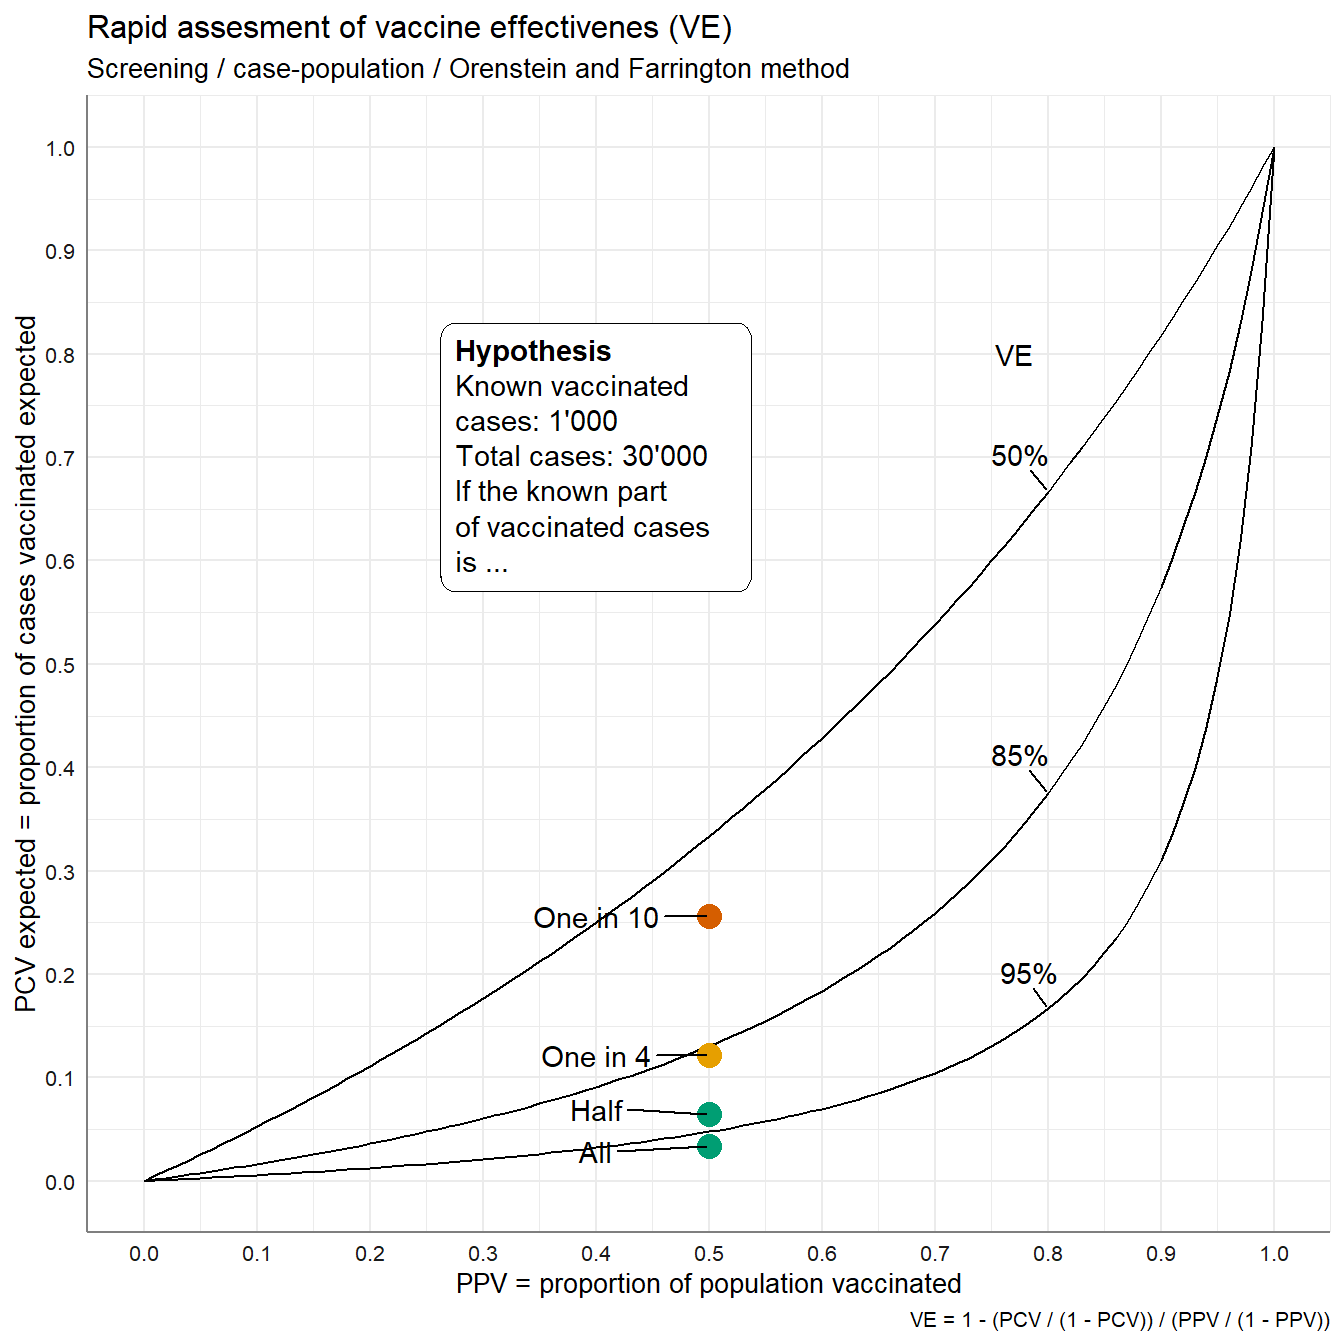
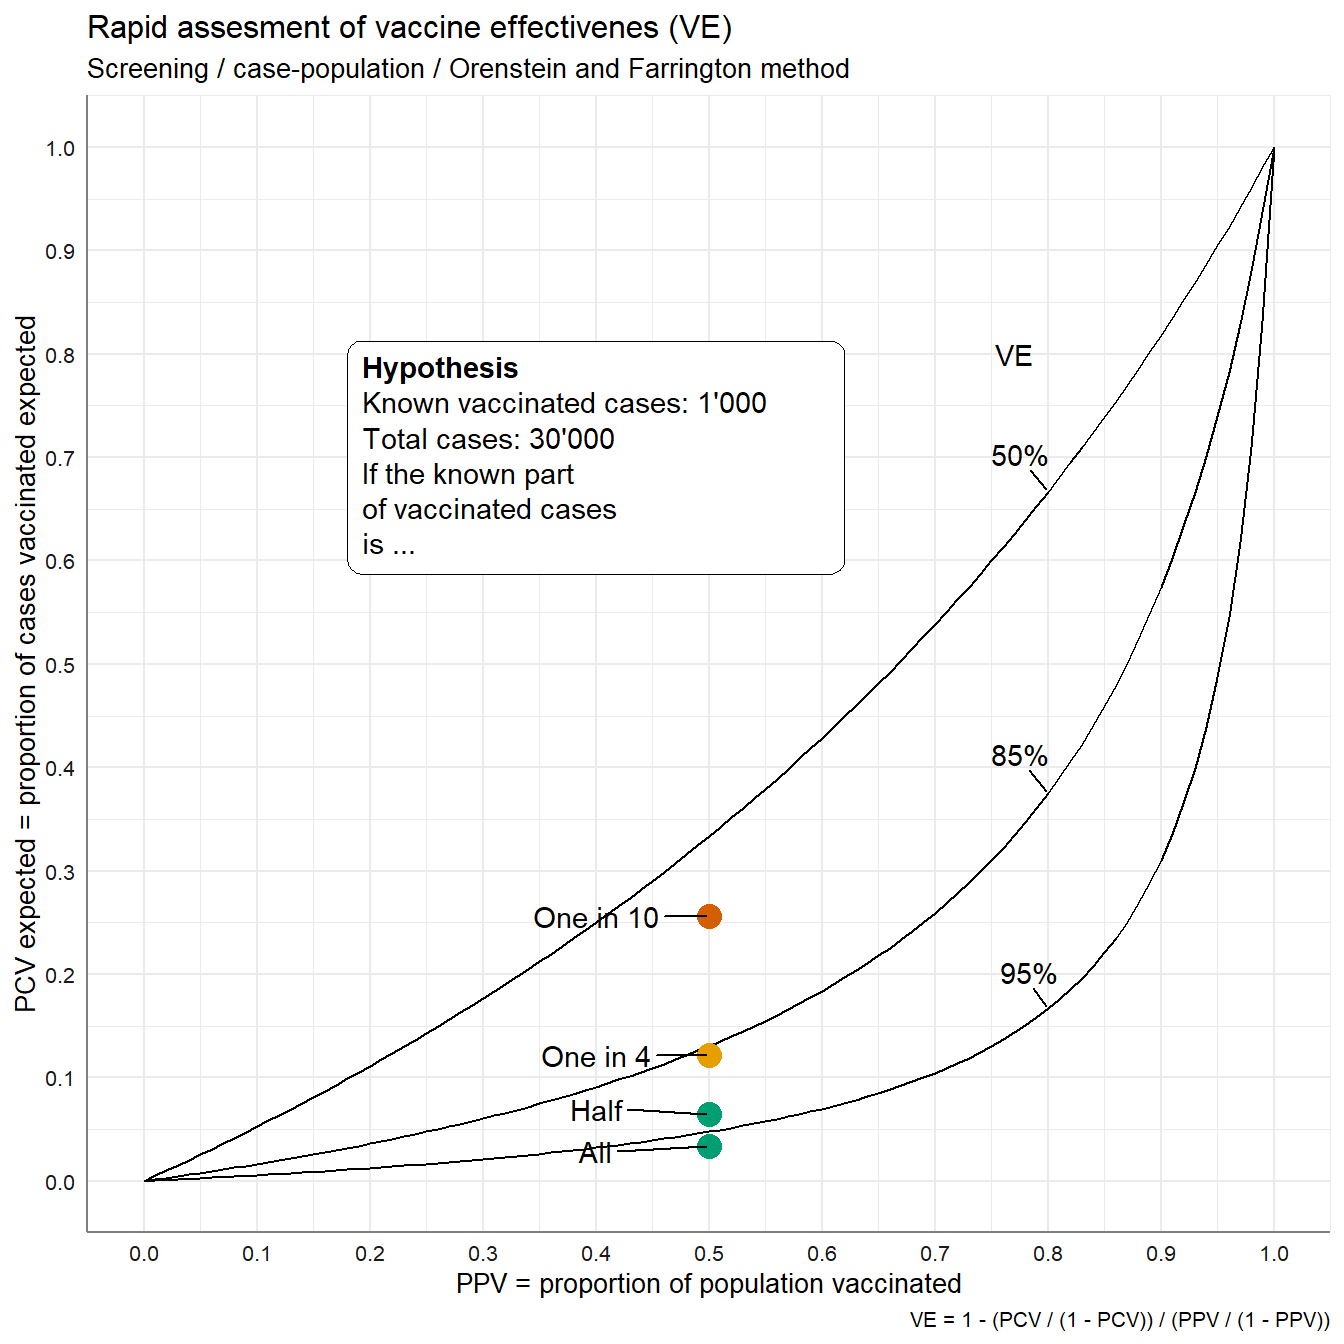
Build site.

Changed region(s): [[0.25, 0.25, 0.5625, 0.4375]]

diff --git a/docs/01_VE_nomogram.html b/docs/01_VE_nomogram.html
@@ -497,16 +497,16 @@ This reproducible <a href="http://rmarkdown.rstudio.com">R Markdown</a> analysis
 <div class="panel panel-default">
 <div class="panel-heading">
 <p class="panel-title">
-<a data-toggle="collapse" data-parent="#workflowr-checks" href="#strongRepositoryversionstrongahrefhttpsgithubcomduperrexvaccineeffectivenessscreeningmethodtreee9de552ee58534f8e5d3918023ae70054ac0b089targetblanke9de552a"> <span class="glyphicon glyphicon-ok text-success" aria-hidden="true"></span> <strong>Repository version:</strong> <a href="https://github.com/duperrex/vaccine_effectiveness_screening_method/tree/e9de552ee58534f8e5d3918023ae70054ac0b089" target="_blank">e9de552</a> </a>
+<a data-toggle="collapse" data-parent="#workflowr-checks" href="#strongRepositoryversionstrongahrefhttpsgithubcomduperrexvaccineeffectivenessscreeningmethodtree45c500d8e03fffd9f9b30ae4e358dfcfb65ab9ddtargetblank45c500da"> <span class="glyphicon glyphicon-ok text-success" aria-hidden="true"></span> <strong>Repository version:</strong> <a href="https://github.com/duperrex/vaccine_effectiveness_screening_method/tree/45c500d8e03fffd9f9b30ae4e358dfcfb65ab9dd" target="_blank">45c500d</a> </a>
 </p>
 </div>
[2 lines of base64/hex data omitted]
 <div class="panel-body">
 <p>
 Great! You are using Git for version control. Tracking code development and connecting the code version to the results is critical for reproducibility.
 </p>
 <p>
-The results in this page were generated with repository version <a href="https://github.com/duperrex/vaccine_effectiveness_screening_method/tree/e9de552ee58534f8e5d3918023ae70054ac0b089" target="_blank">e9de552</a>. See the <em>Past versions</em> tab to see a history of the changes made to the R Markdown and HTML files.
+The results in this page were generated with repository version <a href="https://github.com/duperrex/vaccine_effectiveness_screening_method/tree/45c500d8e03fffd9f9b30ae4e358dfcfb65ab9dd" target="_blank">45c500d</a>. See the <em>Past versions</em> tab to see a history of the changes made to the R Markdown and HTML files.
 </p>
 <p>
 Note that you need to be careful to ensure that all relevant files for the analysis have been committed to Git prior to generating the results (you can use <code>wflow_publish</code> or <code>wflow_git_commit</code>). workflowr only checks the R Markdown file, but you know if there are other scripts or data files that it depends on. Below is the status of the Git repository when the results were generated:
@@ -515,12 +515,13 @@ Note that you need to be careful to ensure that all relevant files for the analy
 Ignored files:
     Ignored:    .Rhistory
     Ignored:    .Rproj.user/
+    Ignored:    output/RData/
     Ignored:    output/png4ppt/p0_1_VE_nomogram_PPV_50_data_global.png
     Ignored:    output/png4ppt/p0_1_VE_nomogram_PPV_50_data_global_hypothetical.png
     Ignored:    output/xlsx/
 
-Unstaged changes:
-    Modified:   0_run_ME.R
+Untracked files:
+    Untracked:  analysis/02_VE_screening_method.Rmd
 
 </code></pre>
 <p>
@@ -535,7 +536,7 @@ Note that any generated files, e.g. HTML, png, CSS, etc., are not included in t
 <div id="versions" class="tab-pane fade">
 
 <p>
-These are the previous versions of the repository in which changes were made to the R Markdown (<code>analysis/VE_nomogram.Rmd</code>) and HTML (<code>docs/VE_nomogram.html</code>) files. If you’ve configured a remote Git repository (see <code>?wflow_git_remote</code>), click on the hyperlinks in the table below to view the files as they were in that past version.
+These are the previous versions of the repository in which changes were made to the R Markdown (<code>analysis/01_VE_nomogram.Rmd</code>) and HTML (<code>docs/01_VE_nomogram.html</code>) files. If you’ve configured a remote Git repository (see <code>?wflow_git_remote</code>), click on the hyperlinks in the table below to view the files as they were in that past version.
 </p>
 <div class="table-responsive">
 <table class="table table-condensed table-hover">
@@ -561,36 +562,19 @@ Message
 <tbody>
 <tr>
 <td>
-html
-</td>
-<td>
-<a href="https://rawcdn.githack.com/duperrex/vaccine_effectiveness_screening_method/08b82b2362dc17a2517b305b7f1130e7d3486c43/docs/VE_nomogram.html" target="_blank">08b82b2</a>
-</td>
-<td>
-Olivier.Duperrex
-</td>
-<td>
-2021-09-06
-</td>
-<td>
-Build site.
-</td>
-</tr>
-<tr>
-<td>
 Rmd
 </td>
 <td>
-<a href="https://github.com/duperrex/vaccine_effectiveness_screening_method/blob/26eb3f7b73578d2aa32d6ce1a688c6daa1b240a5/analysis/VE_nomogram.Rmd" target="_blank">26eb3f7</a>
+<a href="https://github.com/duperrex/vaccine_effectiveness_screening_method/blob/44c06307dfc24ed87f4d6ed49f8ca0593eec6f10/analysis/01_VE_nomogram.Rmd" target="_blank">44c0630</a>
 </td>
 <td>
 Olivier.Duperrex
 </td>
 <td>
-2021-09-06
+2021-09-07
 </td>
 <td>
-save xlsx
+wflow_rename(here::here(“analysis,” “VE_nomogram.Rmd”), here::here(“analysis,”
 </td>
 </tr>
 <tr>
@@ -598,118 +582,16 @@ save xlsx
 html
 </td>
 <td>
-<a href="https://rawcdn.githack.com/duperrex/vaccine_effectiveness_screening_method/f8e9fdaaeab5dd96ad8db56266e9c399a2e80354/docs/VE_nomogram.html" target="_blank">f8e9fda</a>
+<a href="https://rawcdn.githack.com/duperrex/vaccine_effectiveness_screening_method/44c06307dfc24ed87f4d6ed49f8ca0593eec6f10/docs/01_VE_nomogram.html" target="_blank">44c0630</a>
 </td>
 <td>
 Olivier.Duperrex
 </td>
 <td>
-2021-09-06
+2021-09-07
 </td>
 <td>
-Build site.
-</td>
-</tr>
-<tr>
-<td>
-Rmd
-</td>
-<td>
-<a href="https://github.com/duperrex/vaccine_effectiveness_screening_method/blob/1e08d2a2e51f24c9cc043d446fc1ab7706872e9a/analysis/VE_nomogram.Rmd" target="_blank">1e08d2a</a>
-</td>
-<td>
-Olivier.Duperrex
-</td>
-<td>
-2021-09-06
-</td>
-<td>
-Add hypothetical example and update refs
-</td>
-</tr>
-<tr>
-<td>
-Rmd
-</td>
-<td>
-<a href="https://github.com/duperrex/vaccine_effectiveness_screening_method/blob/bc2ec51c4e188d4a7c41891b4a7d6d17873cbe9c/analysis/VE_nomogram.Rmd" target="_blank">bc2ec51</a>
-</td>
-<td>
-Olivier.Duperrex
-</td>
-<td>
-2021-09-02
-</td>
-<td>
-Add extra point SO as example
-</td>
-</tr>
-<tr>
-<td>
-html
-</td>
-<td>
-<a href="https://rawcdn.githack.com/duperrex/vaccine_effectiveness_screening_method/dabb711bf92006302066c5a5ca88471a1c55cbc4/docs/VE_nomogram.html" target="_blank">dabb711</a>
-</td>
-<td>
-Olivier.Duperrex
-</td>
-<td>
-2021-08-27
-</td>
-<td>
-Build site.
-</td>
-</tr>
-<tr>
-<td>
-Rmd
-</td>
-<td>
-<a href="https://github.com/duperrex/vaccine_effectiveness_screening_method/blob/a7d4bdc2c68d19d46c54d4c49554869c65ddd436/analysis/VE_nomogram.Rmd" target="_blank">a7d4bdc</a>
-</td>
-<td>
-Olivier.Duperrex
-</td>
-<td>
-2021-08-27
-</td>
-<td>
-Initial commit
-</td>
-</tr>
-<tr>
-<td>
-html
-</td>
-<td>
-<a href="https://rawcdn.githack.com/duperrex/vaccine_effectiveness_screening_method/8fb4a90f75db3061d31eab804f86293784a94106/docs/VE_nomogram.html" target="_blank">8fb4a90</a>
-</td>
-<td>
-Olivier.Duperrex
-</td>
-<td>
-2021-08-26
-</td>
-<td>
-Build site.
-</td>
-</tr>
-<tr>
-<td>
-Rmd
-</td>
-<td>
-<a href="https://github.com/duperrex/vaccine_effectiveness_screening_method/blob/e5ffc1812ee5c683d2cc492370381147edc31898/analysis/VE_nomogram.Rmd" target="_blank">e5ffc18</a>
-</td>
-<td>
-Olivier.Duperrex
-</td>
-<td>
-2021-08-26
-</td>
-<td>
-Initial commit
+wflow_rename(here::here(“analysis,” “VE_nomogram.Rmd”), here::here(“analysis,”
 </td>
 </tr>
 </tbody>
@@ -765,33 +647,40 @@ if (language_chosen == &#39;fr&#39;) {
   ## labels fr ---------------------------------
   lab_y &lt;- &quot;PCV attendus = proportion des cas vaccinés attendus&quot;
   lab_x &lt;- &quot;PPV = proportion de la population vaccinée&quot;
-  title &lt;- &quot;Approximation rapide de l&#39;efficacité vaccinale réelle (VE)&quot;
-  subtitle &lt;- &quot;Evaluation rapide / cas-population / Orenstein et Farrington&quot;
+  title &lt;-
+    &quot;Approximation rapide de l&#39;efficacité vaccinale réelle (VE)&quot;
+  subtitle &lt;-
+    &quot;Evaluation rapide / cas-population / Orenstein et Farrington&quot;
   lab_VE &lt;- &quot;Efficacité vaccinale&quot;
-
-    label_annotation_cases_vacc_known &lt;- gt::md(&quot;**Hypothèses**   
+  label_short &lt;-
+    c(&quot;Tous&quot;, &quot;Moitié&quot;, &quot;Un sur 4&quot;, &quot;Un sur 10&quot;) # known vaccinated cases
+  label_annotation_cases_vacc_known &lt;- gt::md(
+    &quot;**Hypothèses**  
   Cas vaccinés connus : 1&#39;000  
   Cas totaux : 30&#39;000  
-  Si la part connue   
-  des cas vaccinés     
-  est de ...&quot;)
-  label_short &lt;-  c(&quot;Tous&quot;, &quot;Moitié&quot;, &quot;Un sur 4&quot;, &quot;Un sur 10&quot;) # known vaccinated cases
+  Si la part connue  
+  des cas vaccinés  
+  est de ...&quot;
+  )
   
 } else {
-
-## labels en ---------------------------------
-lab_y &lt;- &quot;PCV expected = proportion of cases vaccinated expected&quot;
-lab_x &lt;-  &quot;PPV = proportion of population vaccinated&quot;
-title &lt;- &quot;Rapid assesment of vaccine effectivenes (VE)&quot;
-subtitle &lt;- &quot;Screening / case-population / Orenstein and Farrington method&quot;
-lab_VE &lt;- &quot;Vaccine efficacy&quot;
-label_short &lt;-  c(&quot;All&quot;, &quot;Half&quot;, &quot;One in 4&quot;, &quot;One in 10&quot;) # known vaccinated cases
-label_annotation_cases_vacc_known &lt;- gt::md(&quot;**Hypothesis**   
+  ## labels en ---------------------------------
+  lab_y &lt;- &quot;PCV expected = proportion of cases vaccinated expected&quot;
+  lab_x &lt;-  &quot;PPV = proportion of population vaccinated&quot;
+  title &lt;- &quot;Rapid assesment of vaccine effectivenes (VE)&quot;
+  subtitle &lt;-
+    &quot;Screening / case-population / Orenstein and Farrington method&quot;
+  lab_VE &lt;- &quot;Vaccine efficacy&quot;
+  label_short &lt;-
+    c(&quot;All&quot;, &quot;Half&quot;, &quot;One in 4&quot;, &quot;One in 10&quot;) # known vaccinated cases
+  label_annotation_cases_vacc_known &lt;- gt::md(
+    &quot;**Hypothesis**  
   Known vaccinated cases: 1&#39;000  
   Total cases: 30&#39;000  
-  If the known part    
-  of vaccinated cases    
-  is ...&quot;)
+  If the known part  
+  of vaccinated cases  
+  is ...&quot;
+  )
 }</code></pre>
 </div>
 <div id="the-equations" class="section level2">
@@ -839,11 +728,7 @@ theme_update(
 ## Prepare some elements for plots ----------------------------------
 # out_png4ppt : output folder for png ---
 # needs to be modified according to your own project structure
-out_png4ppt &lt;- here::here(&#39;output&#39;, &#39;png4ppt&#39;) 
-
-# if(!fs::dir_exists(out_png4ppt)){
-#   fs::dir_create(out_png4ppt)
-# }</code></pre>
+out_png4ppt &lt;- here::here(&#39;output&#39;, &#39;png4ppt&#39;) </code></pre>
 </div>
 </div>
 <div id="prepare-the-nomogram" class="section level1">
@@ -900,7 +785,7 @@ tail(dt_1)
 
     theme(plot.subtitle = ggtext::element_markdown())
     )</code></pre>
-<p><img src="figure/VE_nomogram.Rmd/p1-1.png" width="672" style="display: block; margin: auto;" /></p>
+<p><img src="figure/01_VE_nomogram.Rmd/p1-1.png" width="672" style="display: block; margin: auto;" /></p>
 <pre class="r"><code>
 
 
@@ -946,7 +831,6 @@ label_all &lt;-
 
 ## add points and labels to the plot ----
 p1_ppv50_a &lt;- p1_ppv50 +
-geom_text_repel()+
   geom_point(x = ppv_all,
              y = pcv_all,
              col = &#39;darkgreen&#39;,
@@ -964,7 +848,7 @@ geom_text_repel()+
   
 p1_ppv50_a
 Don&#39;t know how to automatically pick scale for object of type from_markdown. Defaulting to continuous.</code></pre>
-<p><img src="figure/VE_nomogram.Rmd/p1_ppv50-1.png" width="672" style="display: block; margin: auto;" /></p>
+<p><img src="figure/01_VE_nomogram.Rmd/p1_ppv50-1.png" width="672" style="display: block; margin: auto;" /></p>
 <pre class="r"><code>
 ggsave(&quot;p0_1_VE_nomogram_PPV_50_data_global.png&quot;, path = out_png4ppt)
 Saving 7 x 7 in image
@@ -1075,15 +959,17 @@ p1 +
   ggtext::geom_textbox(
     x = 0.4,
     y = 0.7,
-    width = grid::unit(0.25, &quot;npc&quot;),
+    width = grid::unit(0.4, &quot;npc&quot;),
     # 25% of plot panel width
     label = label_annotation_cases_vacc_known
   )
 Warning: Ignoring unknown aesthetics: label</code></pre>
-<p><img src="figure/VE_nomogram.Rmd/p1_ppv50_b-1.png" width="672" style="display: block; margin: auto;" /></p>
+<p><img src="figure/01_VE_nomogram.Rmd/p1_ppv50_b-1.png" width="672" style="display: block; margin: auto;" /></p>
 <pre class="r"><code>
 ggsave(&quot;p0_1_VE_nomogram_PPV_50_data_global_hypothetical.png&quot;, path = out_png4ppt)
-Saving 7 x 7 in image</code></pre>
+Saving 7 x 7 in image
+
+## NOTE : the ggtext::geom_textbox() gives a nice output with md format ... but it is very slow!</code></pre>
 <p>For a vaccination coverage of 0.5, a number of total cases of 30000 and 1000 vaccinated, this exploration shows that if we know :</p>
 <ul>
 <li><p>all or half of the cases, the vaccine effectiveness is close the vaccine efficacy</p></li>
@@ -1125,7 +1011,7 @@ p1 + annotate(&#39;table&#39;,
     hjust = - 0.1,
     col = &#39;darkgreen&#39;,
     label = label_all)</code></pre>
-<p><img src="figure/VE_nomogram.Rmd/p1_ppv40-1.png" width="672" style="display: block; margin: auto;" /></p>
+<p><img src="figure/01_VE_nomogram.Rmd/p1_ppv40-1.png" width="672" style="display: block; margin: auto;" /></p>
 <pre class="r"><code>
 ggsave(&quot;p0_2_VE_nomogram_PPV_40.png&quot;, path = out_png4ppt)
 Saving 7 x 7 in image</code></pre>
@@ -1160,7 +1046,7 @@ p1 + annotate(&#39;table&#39;,
            vjust = 3,
            col = &#39;purple&#39;,
            label = label_seniors)</code></pre>
-<p><img src="figure/VE_nomogram.Rmd/p1_ppv80-1.png" width="672" style="display: block; margin: auto;" /></p>
+<p><img src="figure/01_VE_nomogram.Rmd/p1_ppv80-1.png" width="672" style="display: block; margin: auto;" /></p>
 <pre class="r"><code>
 ggsave(&quot;p0_3_VE_nomogram_PPV_80.png&quot;, path = out_png4ppt)
 Saving 7 x 7 in image</code></pre>
